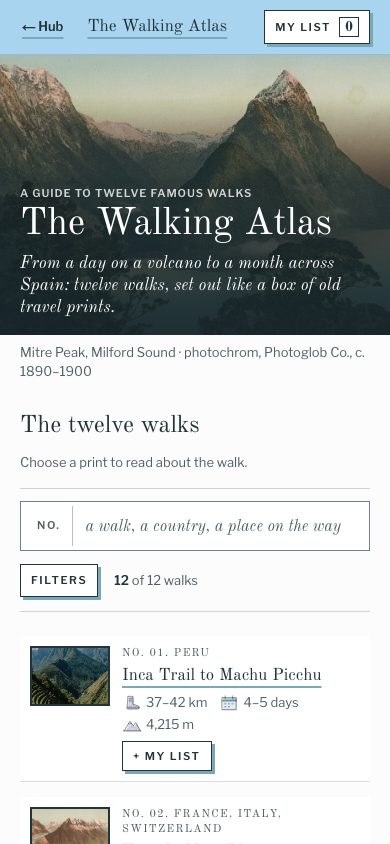
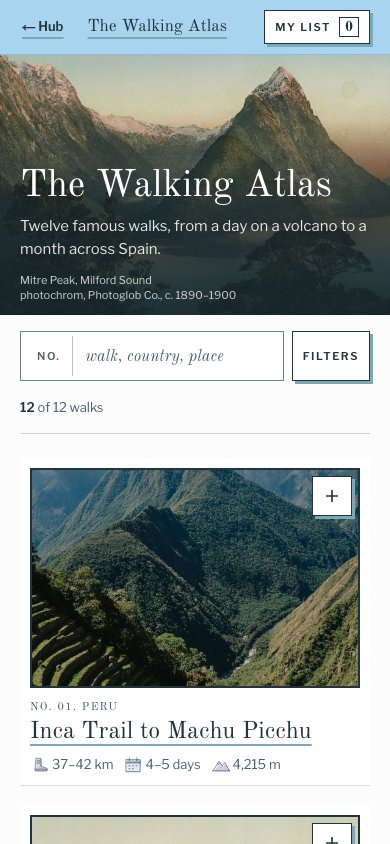
feat: phone index shows one large print per walk, with a list mark on its corner

diff --git a/src/app/trails/TrailsIndex.tsx b/src/app/trails/TrailsIndex.tsx
@@ -6,13 +6,13 @@ import { hikes } from "@/data/hikes";
 import { PLACES } from "@/data/stops";
 import rawPhotos from "@/data/trailPhotos.json";
 import { TonedPhoto, creditLine, type TrailPhoto } from "@/components/dawn/Toned";
-import { SecondaryButton } from "@/components/dawn/ds/Primitives";
+import { ListMark, SecondaryButton } from "@/components/dawn/ds/Primitives";
 import { PrintCard } from "@/components/dawn/ds/Pieces";
 import { PlateIcon } from "@/components/dawn/PlateArt";
 import { NO_FILTERS, applyFilters } from "./filters";
 import { FilterBar } from "./FilterBar";
 import { useTrails } from "./state";
-import { t12, t14, t24, t48, t96 } from "./type";
+import { t12, t14, t17, t24, t48, t96 } from "./type";
 
 const photos = rawPhotos as Record<string, TrailPhoto[]>;
 // Mitre Peak: a Milford print that is not any card's cover, so the opening plate is not repeated below.
@@ -25,19 +25,20 @@ export default function TrailsIndex() {
 
   return (
     <div className="mx-auto max-w-6xl px-5">
-      {/* Phone: the title is printed over the lower part of the opening print, so one screen holds both. */}
+      {/* Phone: the title and one line printed over the opening print, its credit along the foot, so the first walk
+          is on the first screen. */}
       <header className="relative -mx-5 sm:hidden">
-        <figure className="m-0">
-          <div className="relative h-[280px]">
-            <TonedPhoto photo={OPENING} sizes="100vw" priority className="h-full w-full" />
-            <div aria-hidden="true" className="absolute inset-0 bg-[linear-gradient(180deg,rgba(22,37,43,0)_15%,rgba(22,37,43,.68)_45%,rgba(22,37,43,.92)_100%)]" />
-            <div className="absolute inset-x-5 bottom-4 text-dw-mount">
-              <p className={`${t12} !tracking-[0.08em] text-dw-page/80`}>A guide to twelve famous walks</p>
-              <h1 className={`${t96} mt-1`}>The Walking Atlas</h1>
-              <p className={`${t24} mt-2 italic text-dw-page`}>From a day on a volcano to a month across Spain: twelve walks, set out like a box of old travel prints.</p>
-            </div>
+        <figure className="relative m-0 h-[260px]">
+          <TonedPhoto photo={OPENING} sizes="100vw" priority className="h-full w-full" />
+          <div aria-hidden="true" className="absolute inset-0 bg-[linear-gradient(180deg,rgba(22,37,43,0)_25%,rgba(22,37,43,.7)_58%,rgba(22,37,43,.92)_100%)]" />
+          <div className="absolute inset-x-5 bottom-3 text-dw-mount">
+            <h1 className={t96}>The Walking Atlas</h1>
+            <p className={`${t17} mt-2 text-dw-page/90`}>Twelve famous walks, from a day on a volcano to a month across Spain.</p>
+            <figcaption className="mt-3 font-[family-name:var(--dw-ui)] text-[11px] leading-[15px] text-dw-page/80">
+              {/* the place, then who printed it and when, each kept whole */}
+              {creditLine(OPENING).split(" · ").map((part) => <span key={part} className="block">{part}</span>)}
+            </figcaption>
           </div>
-          <figcaption className={`${t14} mt-2 px-5 text-dw-muted`}>{creditLine(OPENING)}</figcaption>
         </figure>
       </header>
 
@@ -57,8 +58,9 @@ export default function TrailsIndex() {
         </figure>
       </header>
 
-      <section id="walks" aria-labelledby="walks-title" className="mt-8 scroll-mt-16 sm:mt-16">
-        <div className="flex flex-wrap items-baseline justify-between gap-3">
+      <section id="walks" aria-labelledby="walks-title" className="scroll-mt-16 sm:mt-16">
+        {/* on a phone the prints say this for themselves; the heading stays for screen readers */}
+        <div className="flex flex-wrap items-baseline justify-between gap-3 max-sm:sr-only">
           <h2 id="walks-title" className={t48}>The twelve walks</h2>
           <p className={`${t14} text-dw-muted`}>Choose a print to read about the walk.</p>
         </div>
@@ -72,13 +74,14 @@ export default function TrailsIndex() {
             <SecondaryButton onClick={() => setFilters(NO_FILTERS)}>Clear filters</SecondaryButton>
           </div>
         ) : (
-          <ul className="mt-6 grid grid-cols-1 gap-x-8 gap-y-4 sm:mt-10 sm:grid-cols-2 sm:gap-y-10 lg:grid-cols-3">
+          <ul className="mt-6 grid grid-cols-1 gap-x-8 gap-y-5 sm:mt-10 sm:grid-cols-2 sm:gap-y-10 lg:grid-cols-3">
             {shown.map((h) => (
               <li key={h.id} className="flex">
                 <PrintCard
                   id={h.id}
                   photo={coverOf(h.id)}
                   href={`/trails/${h.id}/`}
+                  mark={<ListMark selected={list.includes(h.id)} onClick={() => toggleList(h.id)} aria-label={`${h.name}: on my list`} />}
                   footer={
                     <SecondaryButton small selected={list.includes(h.id)} onClick={() => toggleList(h.id)} aria-label={`${h.name}: on my list`}>
                       {list.includes(h.id) ? "On my list" : "+ My list"}

diff --git a/src/components/dawn/ds/Pieces.tsx b/src/components/dawn/ds/Pieces.tsx
@@ -21,28 +21,30 @@ export function Caption({ h }: { h: Hike }) {
 }
 
 /** Card: a mounted print. The print and its caption are one link; `footer` (a small button) sits under it, outside
- *  the link. Hover lifts an sky plate and brings the colour up; press sinks the mount. */
-export function PrintCard({ id, photo, href = "#card", footer, sizes = "(min-width: 1024px) 360px, (min-width: 640px) 50vw, 120px" }: { id: string; photo: TrailPhoto; href?: string; footer?: React.ReactNode; sizes?: string }) {
+ *  the link. On a phone `mark` (a ListMark) takes the footer's place on the print's corner, so each card is the print,
+ *  the name and one line of figures. Hover lifts an sky plate and brings the colour up; press sinks the mount. */
+export function PrintCard({ id, photo, href = "#card", footer, mark, sizes = "(min-width: 1024px) 360px, (min-width: 640px) 50vw, 100vw" }: { id: string; photo: TrailPhoto; href?: string; footer?: React.ReactNode; mark?: React.ReactNode; sizes?: string }) {
   const h = byId(id);
-  // On a phone the print sits beside its caption, so a screen shows several walks; from 640px it stands above it.
   const inner = (
     <>
-      <TonedPhoto photo={photo} sizes={sizes} className={`row-span-3 aspect-[4/3] self-start border-2 border-dw-ink sm:border-[3px] ${colourUp}`} />
-      <span className={`${t12caption} block text-dw-muted sm:mt-4`}>{no(h)}. {h.country.join(", ")}</span>
-      <span id={`${h.id}-card`} className={`${t24} mt-1 block underline decoration-dw-lake decoration-2 underline-offset-[6px] ${slow} group-hover:decoration-dw-ink group-hover:underline-offset-[3px]`}>{h.name}</span>
-      <span className={`${t14} mt-1.5 flex flex-wrap gap-x-3 gap-y-0.5 text-dw-muted`}>
+      <TonedPhoto photo={photo} sizes={sizes} className={`aspect-[3/2] border-2 border-dw-ink sm:aspect-[4/3] sm:border-[3px] ${colourUp}`} />
+      <span className={`${t12caption} mt-3 block text-dw-muted sm:mt-4`}>{no(h)}. {h.country.join(", ")}</span>
+      {/* a walk name on a phone card takes the section size (24), the print above it being the only thing larger */}
+      <span id={`${h.id}-card`} className={`${t24} max-sm:text-[24px] max-sm:leading-[1.15] mt-1 block underline decoration-dw-lake decoration-2 underline-offset-[6px] ${slow} group-hover:decoration-dw-ink group-hover:underline-offset-[3px]`}>{h.name}</span>
+      <span className={`${t14} mt-2 flex flex-wrap gap-x-2.5 gap-y-0.5 text-dw-muted sm:mt-1.5 sm:gap-x-3`}>
         {/* each figure with its icon, kept whole when the line wraps */}
         {([[FACT_ICON.distance, `${formatRange(h.distance_km)} km`], [FACT_ICON.days, `${formatRange(h.days)} ${h.days[1] === 1 ? "day" : "days"}`], [FACT_ICON.high, elevation(h)]] as const).map(([icon, x]) => (
-          <span key={icon} className="inline-flex items-center gap-1 whitespace-nowrap"><PlateIcon name={icon} size={20} />{x}</span>
+          <span key={icon} className="inline-flex items-center gap-0.5 whitespace-nowrap sm:gap-1"><PlateIcon name={icon} size={20} />{x}</span>
         ))}
       </span>
     </>
   );
-  const cls = `group relative grid grid-cols-[5rem_1fr] content-start gap-x-3 sm:block ${focusRing}`;
+  const cls = `group relative block ${focusRing}`;
   return (
-    <article aria-labelledby={`${h.id}-card`} className={`flex w-full flex-col p-2.5 sm:p-3.5 ${card.rest} ${cardLiveHas}`}>
+    <article aria-labelledby={`${h.id}-card`} className={`relative flex w-full flex-col p-2.5 sm:p-3.5 ${card.rest} ${cardLiveHas}`}>
       {href.startsWith("/") ? <Link href={href} className={cls}>{inner}</Link> : <a href={href} className={cls}>{inner}</a>}
-      {footer && <div className="mt-auto pl-[5.75rem] pt-1.5 sm:pl-0 sm:pt-4">{footer}</div>}
+      {mark && <div className="absolute right-[1.125rem] top-[1.125rem] sm:hidden">{mark}</div>}
+      {footer && <div className={`mt-auto pt-4 ${mark ? "hidden sm:block" : ""}`}>{footer}</div>}
     </article>
   );
 }

diff --git a/src/app/design-systems/dawn/page.tsx b/src/app/design-systems/dawn/page.tsx
@@ -5,7 +5,7 @@ import { hikes } from "@/data/hikes";
 import { PLATE_ICON_NAMES, PlateDefs, PlateIcon, type PlateIconName } from "@/components/dawn/PlateArt";
 import { DayPlates, EmbossStamp, PLATE_KEYFRAMES } from "@/components/dawn/PlateUI";
 import { DAWN_FIELD, DAWN_FOCUS_CSS, DW, caps, display, ui } from "@/components/dawn/ds/tokens";
-import { CatalogueSearch, CountBadge, MountInput, MountSelect, PlateCheck, PlateLink, PlateRadio, PrimaryButton, RadioSwatch, SecondaryButton } from "@/components/dawn/ds/Primitives";
+import { CatalogueSearch, CountBadge, ListMark, MountInput, MountSelect, PlateCheck, PlateLink, PlateRadio, PrimaryButton, RadioSwatch, SecondaryButton } from "@/components/dawn/ds/Primitives";
 import { ChipSwatch, PlateChips, PlateTabs, PlateToggle, RouteMap, TabSwatch } from "@/components/dawn/ds/Interactive";
 import { CardSwatch, CatalogueRow, DetailPanel, UIStates } from "@/components/dawn/ds/Pieces";
 import { HeroPlate, NeighbourLink, PlateThumb, SeasonStrip, StopSwatch, routeNodes } from "@/components/dawn/ds/Guide";
@@ -209,6 +209,8 @@ function Components() {
             <SecondaryButton>Later</SecondaryButton>
             <SecondaryButton small>Clear all</SecondaryButton>
             <SecondaryButton small selected>On my list</SecondaryButton>
+            <ListMark aria-label="Milford Track: on my list" />
+            <ListMark selected aria-label="Tongariro Alpine Crossing: on my list" />
           </div>
           <div className="flex flex-wrap items-baseline gap-6">
             <PlateLink>Read the route</PlateLink>
@@ -268,7 +270,7 @@ function Components() {
           <span className="flex items-center gap-2"><CountBadge n={12} /><span className={`${ui} text-sm text-dw-muted`}>trails</span></span>
         </div>
       </Block>
-      <Block title="Card" note="A mounted print; the print and name open the walk. The list button sits outside the link.">
+      <Block title="Card" note="A mounted print; the print and name open the walk. The list button sits outside the link: under the card from 640px, folded into the list mark on the print's corner on a phone.">
         <div className="max-w-sm"><CardDemo id="milford" photo={cover} /></div>
       </Block>
       <div className="space-y-4">
@@ -359,6 +361,7 @@ const STATE_NOTES: Record<ControlState, { tells: string; looks: string }> = {
 const CUES: Record<string, string> = {
   "Primary button": "a solid loch block on an offset plate",
   "Secondary button": "a key-line box on an offset plate",
+  "List mark": "a key-line square with a plus, on a print's corner",
   "Link": "an underline that is always there",
   "Filter chip": "an outlined label with its count",
   "Tab": "labels sitting on a key line",
@@ -378,6 +381,7 @@ type Row = { name: string; render: (s: ControlState) => React.ReactNode | null }
 const ROWS: Row[] = [
   { name: "Primary button", render: (s) => <PrimaryButton force={s}>{s === "selected" ? "On list" : "Add"}</PrimaryButton> },
   { name: "Secondary button", render: (s) => <SecondaryButton force={s} small>{s === "selected" ? "On list" : "My list"}</SecondaryButton> },
+  { name: "List mark", render: (s) => <ListMark force={s} /> },
   { name: "Link", render: (s) => (s === "selected" || s === "disabled" ? null : <PlateLink force={s}>Sources</PlateLink>) },
   { name: "Filter chip", render: (s) => <ChipSwatch force={s} /> },
   { name: "Tab", render: (s) => <TabSwatch force={s} /> },

diff --git a/src/app/trails/FilterBar.tsx b/src/app/trails/FilterBar.tsx
@@ -51,17 +51,20 @@ export function FilterBar({ f, setF, shown, total }: { f: Filters; setF: (f: Fil
     <span><span className="font-semibold text-dw-ink">{shown}</span> of {total} walks</span>
   );
   return (
-    <div className="mt-4 border-y border-dw-ink/20 py-3 sm:mt-8 sm:py-4">
-      <div className="mb-3 max-w-md sm:mb-4">
-        <CatalogueSearch id="walk-search" label="Search the walks" placeholder="a walk, a country, a place on the way" value={f.query} onChange={(query) => setF({ ...f, query })} />
-      </div>
-      <div className="hidden sm:block"><Choices f={f} setF={setF} idPrefix="inline" /></div>
-      <p className={`${t14} mt-2 flex min-h-9 flex-wrap items-center gap-x-4 gap-y-2 text-dw-muted sm:mt-3`} aria-live="polite">
-        <span className="sm:hidden">
+    <div className="mt-4 border-b border-dw-ink/20 pb-2 sm:mt-8 sm:border-t sm:py-4">
+      {/* on a phone the Filters button sits beside the search, the two of equal height */}
+      <div className="mb-1 flex items-stretch gap-2 sm:mb-4 sm:max-w-md">
+        <div className="min-w-0 flex-1">
+          <CatalogueSearch id="walk-search" label="Search the walks" placeholder="walk, country, place" value={f.query} onChange={(query) => setF({ ...f, query })} />
+        </div>
+        <span className="flex sm:hidden [&>button]:h-full">
           <SecondaryButton small selected={active > 0} aria-haspopup="dialog" onClick={() => setOpen(true)}>
             Filters{active > 0 && <span className="ml-1.5">{active}</span>}
           </SecondaryButton>
         </span>
+      </div>
+      <div className="hidden sm:block"><Choices f={f} setF={setF} idPrefix="inline" /></div>
+      <p className={`${t14} mt-2 flex min-h-9 flex-wrap items-center gap-x-4 gap-y-2 text-dw-muted sm:mt-3`} aria-live="polite">
         {result}
         {isFiltered(f) && <SecondaryButton small onClick={() => setF(NO_FILTERS)}>Clear all</SecondaryButton>}
       </p>

diff --git a/src/components/dawn/ds/Primitives.tsx b/src/components/dawn/ds/Primitives.tsx
@@ -71,6 +71,25 @@ export function SecondaryButton({ force, selected, small, children = "Later", ..
   );
 }
 
+/** List mark: the list button folded to a square on a print's corner, for phones, where a button under every card
+ *  is one line too many. The secondary button's states; chosen, it shows the tick on sun. Needs an aria-label. */
+export function ListMark({ force, selected, ...rest }: Omit<ButtonProps, "small" | "children">) {
+  const on = (force ?? (selected ? "selected" : "rest")) === "selected";
+  const ink = force === "disabled" ? DW.muted : DW.text;
+  const glyph = (
+    <svg viewBox="0 0 20 20" className="h-4 w-4" aria-hidden="true">
+      <path d={on ? "M4 10.5 L8 14.5 L16 5.5" : "M10 3.5 V16.5 M3.5 10 H16.5"} fill="none" stroke={ink} strokeWidth={on ? 2.4 : 2} strokeLinecap="square" />
+    </svg>
+  );
+  const base = `relative grid h-10 w-10 place-items-center border ${slow}`;
+  if (force) return <span className={`${base} ${secondaryState[force]}`}>{glyph}</span>;
+  return (
+    <button type="button" aria-pressed={selected} {...rest} className={`${base} ${selected ? `${secondaryState.selected} ${selectedLive}` : `${secondaryState.rest} ${secondaryLive}`}`}>
+      {glyph}
+    </button>
+  );
+}
+
 /* ---------- link ---------- */
 
 /** Link sizes, from the six: reading text, notes, and walk names. */

diff --git a/src/components/dawn/ds/Demos.tsx b/src/components/dawn/ds/Demos.tsx
@@ -3,7 +3,7 @@
 import { useState } from "react";
 import type { TrailPhoto } from "../Toned";
 import { PrintCard } from "./Pieces";
-import { CatalogueSearch, PrimaryButton, SecondaryButton } from "./Primitives";
+import { CatalogueSearch, ListMark, PrimaryButton, SecondaryButton } from "./Primitives";
 import { CatalogueRow } from "./Pieces";
 import { SidePanel } from "./Viewer";
 
@@ -13,6 +13,7 @@ export function CardDemo({ id, photo }: { id: string; photo: TrailPhoto }) {
     <PrintCard
       id={id}
       photo={photo}
+      mark={<ListMark selected={on} onClick={() => setOn(!on)} aria-label="Milford Track: on my list" />}
       footer={<SecondaryButton small selected={on} onClick={() => setOn(!on)}>{on ? "On my list" : "+ My list"}</SecondaryButton>}
     />
   );

diff --git a/log.md b/log.md
@@ -81,3 +81,4 @@
 - 我说手机版首屏的大标题不突出，和上面的小字太接近。原因：上一轮把手机标题缩到 30px，而上面的小标题全大写、字距宽、几乎一样宽。改为手机上大标题 38px（全站唯一主角，所以保留分量），小标题保持 11px 但颜色淡到 80%、字距收窄（对比度仍 6.6:1）。
 - 我说"Twelve Trails"这个名字奇怪，要换。Claude 给了 First Light / Far Paths / The Walking Atlas / Daybreak Walks，我选 The Walking Atlas。全站（hub、网站标题和顶栏、各页标签名、情绪板和设计系统的示例字、README、AGENTS）一起换；网址 dbs-a2.vercel.app 不含名字，不受影响。电脑版大标题分三行，手机上一行放得下。
 - 我说 hub 有点怪。Claude 看整页后指出：最终成果（网站）只是一颗黑色胶囊按钮，"选了哪个、为什么"在它下面且是纯文字，顺序和分量反了；前两部分看不出选了 Dawn；Geist 字体加黑色圆角按钮太像模板；截图里还是旧名字。我同意改：顺序变为 1 情绪板 → 2 设计系统 → 3 我选的 Dawn 和网站（左边网站首屏大截图可点、右边 Dawn 和两条理由加"Open The Walking Atlas →"）→ 4 浏览器检查；两组卡片里 Dawn 加"Picked"标签；hub 自己的标题换成中性的书卷衬线体 Newsreader（不属于三种风格中任何一种），按钮改方形；检查项每条压成一行；截图用新名字重拍（米尔福德电脑版截到照片未加载，重拍并检查画面确有照片）。390/1440 无溢出。
+- 我说手机版首页还是乱：每条路线卡片的图太小、字太多、没有层级，标题区上下的字也多。Claude 截整页看：卡片图只有 80px，编号国家、名字、两行数字、"+ My list"按钮五样差不多大，12 张都在重复；第一条路线前要读五段字。做了两种效果给我选（A 一张大图、B 两张并排），我选 A。手机上：每条路线照片铺满宽度，下面只有"No. 01 · Peru"、名字（24px）、一行数字；"+ My list"折成照片右上角的小方块（新组件 List mark，没加是 +，加了是金底打勾，和副按钮同一套状态），已补进 Dawn 设计系统的按钮区、卡片说明和状态表；标题区去掉小标题、三行斜体缩成一句、署名放进照片底部两行小字（地点 / 谁印的、哪年），"The twelve walks"和提示语只留给读屏；搜索框和 Filters 并成一行（占位字缩短为"walk, country, place"，375 宽也放得下）。电脑版不变。实测：点 + 变金色打勾、顶栏 My list 变 1；无横向滚动；22 个测试通过；hub 的手机截图重拍。
